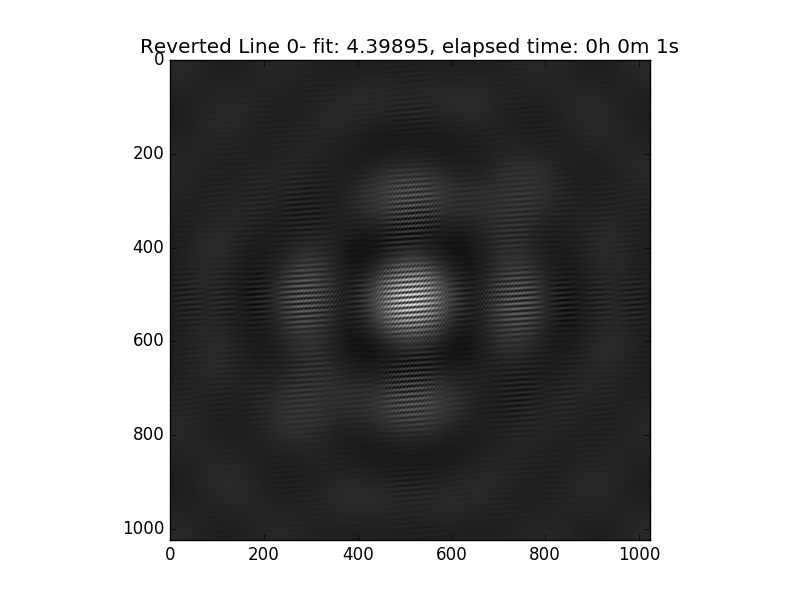
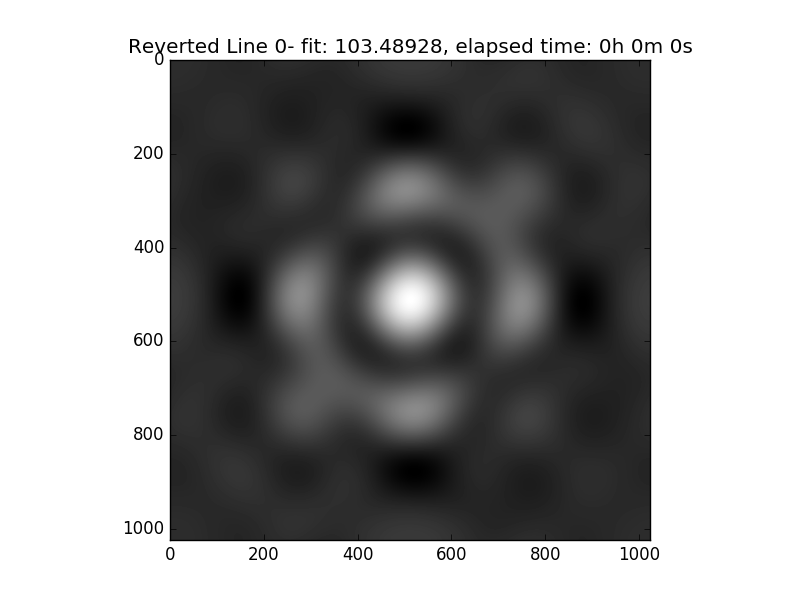
Got rid of synatax bugs

diff --git a/genetic_hologram_generator.py b/genetic_hologram_generator.py
@@ -1,5 +1,5 @@
 # This program uses a genetic algorithm to generate a hologram that matches an input image
-# To run: python ../genetic_hologram_generator.py <path_to_hologram_templates> <path_to_OG_image_file>
+# To run: python2 <preceding path to file>/genetic_hologram_generator.py <path_to_hologram_templates> <path_to_OG_image_file>, example: python ../genetic_hologram_generator.py <path_to_hologram_templates> <path_to_OG_image_file>
 # Image shape has to match template shape, JPEG images ONLY
 
 import os
@@ -8,7 +8,7 @@ import copy
 import time
 import numpy as np
 import matplotlib.pyplot as plt
-import skimage.draw as skdraw
+import skimage.draw as skdraw # Works with skimage version 0.14, may need to get dev version
 from PIL import Image
 from scipy import misc
 
@@ -23,12 +23,13 @@ OG_IMAGE_DIMMING_FACTOR = 10000 # So reconstructed values can come close to OG i
 END_THRESHOLD = 0.0000001 # RMSE cut-off, lower fitness value is better. IGNORE THIS VALUE RIGHT NOW, not properly tuned
 END_SGENS = 200
 ADDITIONS_BEFORE_EVAL = 10
-SUCCESSFUL_GENS_BEFORE_OUTPUT = 50
+GENS_BEFORE_OUTPUT = 50
 NUM_INITIAL_LINES = 1 # How many initial parallel holograms to evolve. More than 1 enables cross-breeding.
 MAX_LINES = 1
 CROSSOVER_RATE = 50 # Number of S_gens before crossover
 CROSSOVER_SINGLE_POINT_THRESH = 0.5 # Value between 0 and 1 that determines where the code is swapped at. Higher values means more of original chromosome is preserved
-MIN_FIT_INCREASE = 0.001
+MIN_FIT_INCREASE = 0.001 # Determines when to stop algorithm
+FITNESS_WHITE_PIXEL_BIAS = 0.5 # How much to look for white pixels in fitness calculation, FITNESS_BLACK_PIXEL_BIAS = (1 - FITNESS_WHITE_PIXEL_BIAS)
 
 # Parameters to loop through, add elements to these arrays to loop through them
 MAX_SHAPE_SIZE = [10]
@@ -57,8 +58,10 @@ def fitness(original, current, image_side_len):
     #np.savetxt('original_image.txt', original)
     #np.savetxt('current_image.txt', current)
     #print(np.amax(current))
-    t = original - current
-    return np.linalg.norm(t) # Test out different norm functions
+    #t = original - current
+    white_bias = FITNESS_WHITE_PIXEL_BIAS * np.linalg.norm(original * current)
+    black_bias = (1 - FITNESS_WHITE_PIXEL_BIAS) * np.linalg.norm(np.abs(original - MAX_INTENSITY) * current)
+    return white_bias + black_bias # Test out different norm functions
 
 def draw_filled_circle(x, y, r):
     return skdraw.circle(int(x), int(y), int(r))
@@ -67,10 +70,10 @@ def draw_outline_circle(x, y, r):
     return skdraw.circle_perimeter(int(x), int(y), int(r))
     
 def draw_filled_rectangle(x, y, half_side):
-    return skdraw.polygon([x - half_side, x + half_side, x + half_side, x - half_side], [y - half_side, y - half_side, y + half_side, y + half_side])
+    return skdraw.polygon(np.asarray([x - half_side, x + half_side, x + half_side, x - half_side]), np.asarray([y - half_side, y - half_side, y + half_side, y + half_side]))
 
 def draw_outline_rectangle(x, y, half_side):
-    return skdraw.polygon_perimeter([x - half_side, x + half_side, x + half_side, x - half_side], [y - half_side, y - half_side, y + half_side, y + half_side])
+    return skdraw.polygon_perimeter(np.asarray([x - half_side, x + half_side, x + half_side, x - half_side]), np.asarray([y - half_side, y - half_side, y + half_side, y + half_side]))
 
 def add_hologram(holo_array, image_side_len, num_template_images, origin, s):
     # Create "blank canvas"        
@@ -114,10 +117,10 @@ def crossover_two_lines_single_point(holo_arrays, line_one, line_two):
     
     holo_arrays.append(new_holo_after_thresh)
     
-def eval_fit(original_image, templates, holo_array, image_side_len, current_sgen, start_time, m, s, lin_num):
+def eval_fit(original_image, templates, current_line, image_side_len, current_gen, start_time, m, s, lin_num, best_fitness):
     cumulative_hologram = np.zeros([image_side_len, image_side_len])
-    for i in range(len(holo_array)):
-        current_holo_vals = holo_array[i]
+    for i in range(len(current_line)):
+        current_holo_vals = np.array(current_line[i])
         mask = np.zeros([image_side_len, image_side_len])
         
         if (current_holo_vals[0] == 0):
@@ -146,13 +149,13 @@ def eval_fit(original_image, templates, holo_array, image_side_len, current_sgen
     fit = fitness(original_image, holo_revert, image_side_len)
     
     if (fit < best_fitness):
-        print("Line " + str(lin_num) + " new best fitness: %.5f -- S_gen %d" % (fit, current_sgen + 1))
+        print("Line " + str(lin_num) + " best fitness: %.5f -- S_gen %d" % (fit, current_gen + 1))
         # Print the % of each template type
-        template_vals = np.array(holo_array)[:, 5]
+        template_vals = np.array(current_line)[:, 5]
         for i in range(len(TEMPLATE_NAMES)):
             print("\t{0:.5f}".format(((template_vals == i).sum() / template_vals.size)) + "\t" + TEMPLATE_NAMES[i])
         # Don't output so many times
-        if ((current_sgen + 1) % SUCCESSFUL_GENS_BEFORE_OUTPUT == 0 or current_sgen == 0):
+        if ((current_gen + 1) % GENS_BEFORE_OUTPUT == 0 or current_gen == 0):
             # Make sure directory exists
             target_dir = "Outputs/Current_run/" + "Mutate_" + str(int(m * 100)) + "/Max_shape_" + str(s) + "/"
             if not os.path.isdir(target_dir):
@@ -161,18 +164,17 @@ def eval_fit(original_image, templates, holo_array, image_side_len, current_sgen
             #plt.figure(1)
             plt.imshow(cumulative_hologram, cmap = 'gray')
             plt.title("Hologram Line " + str(lin_num))
-            plt.savefig(target_dir + "S_gen_" + str(current_sgen + 1) + "_holo" + "_Line" + str(lin_num) + ".png")
+            plt.savefig(target_dir + "S_gen_" + str(current_gen + 1) + "_holo" + "_Line" + str(lin_num) + ".png")
             #plt.figure(2)
             et_h, rem = divmod(int(time.time() - start_time), 3600)
             et_m, et_s = divmod(rem, 60)
             plt.imshow(holo_revert, cmap = 'gray')
             plt.title("Reverted Line " + str(lin_num) + "- fit: " + "{0:.5f}".format(fit) + ", elapsed time: " + str(et_h) + "h " + str(et_m) + "m " + str(et_s) + "s")
-            plt.savefig(target_dir + "S_gen_" + str(current_sgen + 1) + "_revert" + "_Line" + str(lin_num) + ".png")
+            plt.savefig(target_dir + "S_gen_" + str(current_gen + 1) + "_revert" + "_Line" + str(lin_num) + ".png")
             #plt.show()
-        current_sgen += 1
         
     # return current fitness, current_sgen, holo_array[:(len(holo_array) - ADDITIONS_BEFORE_EVAL)] # Remove the recently added-in hologram images
-    return fit, current_sgen
+    return fit
 
 def main():
     # Load templates
@@ -207,23 +209,28 @@ def main():
             #can_cross = []
             for i in range(NUM_INITIAL_LINES):
                 holo_arrays.append(line_array)
-                best_fitness.append(sys.float_info.max) # Lower fitness is better, initialize high
+                fitness.append(0)
+                # Add starting info
+                for j in range(ADDITIONS_BEFORE_EVAL):
+                    add_hologram(holo_arrays[i], image_side_len, templates.shape[0], True, MAX_SHAPE_SIZE[s])
+                #best_fitness.append(sys.float_info.max) # Lower fitness is better, initialize high
                 #line_finished.append(False)
                 #can_cross.append(False)
             num_total_lines = NUM_INITIAL_LINES
             generation = 0
-                
+            
             # Loop until fitness eval is within error threshold
-            best_fitness_val = 0.0
+            best_fitness_val = sys.float_info.max
             best_fitness_diff = sys.float_info.max # Set arbitrary high value
-            while (best_fitness_diff < MIN_FIT_INCREASE): # Stop when fitness improvement becomes small
+            while (best_fitness_diff > MIN_FIT_INCREASE): # Stop when fitness improvement becomes small
+                print('Generation: ' + str(generation))
                 """ 1. Assess fitness """
                 for line in range(num_total_lines):
                     #if (not line_finished[line]):
                     #if (best_fitness[line] > END_THRESHOLD and current_sgen[line] < END_SGENS):
-                    fitness[line], best_fit = eval_fit(OG_image, templates, tmp_holo_array, image_side_len, best_fitness_val, generation, start_time, MUTATION_CHANCE[m], MAX_SHAPE_SIZE[s], line)
-                    if (fitness < best_fitness_val)
-                        fitness[line] = current_fitness
+                    fitness[line] = eval_fit(OG_image, templates, holo_arrays[line], image_side_len, generation, start_time, MUTATION_CHANCE[m], MAX_SHAPE_SIZE[s], line, best_fitness_val)
+                    #if (fitness < best_fitness_val):
+                        #fitness[line] = current_fitness
 
                 """ 2. Selection """
                 pick_line = [0, 0]
@@ -234,19 +241,21 @@ def main():
                             continue
                         if (fitness[line] < tmp_best_fitness):
                             pick_line[p] = line
+                best_fitness_diff = pick_line[0] - best_fitness_val
+                best_fitness_val = pick_line[0] # best_fitness_val should never decrease, because original line should always be kept
 
                 """ 3. Crossover """
                 crossover_two_lines_single_point(holo_arrays, pick_line[0], pick_line[1])
 
-                """ 4. Mutation """ # Mutate new line to add genetic diversity
+                """ 4. Mutation """ # Sometimes mutate new line to add genetic diversity
                 r = np.random.random() # Generates a random value between 0 and 1
                 for i in range(ADDITIONS_BEFORE_EVAL):
-                    if (r < m and len(holo_arrays[-1]) > ADDITIONS_BEFORE_EVAL): # Mutate, remove hologram layer because layers are additive
+                    if (r < MUTATION_CHANCE[m] and len(holo_arrays[-1]) > ADDITIONS_BEFORE_EVAL): # Mutate, remove hologram layer because layers are additive
                         r_int = np.random.randint(len(holo_arrays[-1]))
-                        del tmp_holo_array[r_int]
+                        del holo_arrays[-1][r_int]
                     # Augment  
                     #if (i == 0):
-                    add_hologram(tmp_holo_array, image_side_len, templates.shape[0], True, MAX_SHAPE_SIZE[s]) # tmp_holo_array is modified in the function, includes point in origin
+                    add_hologram(holo_arrays[-1], image_side_len, templates.shape[0], True, MAX_SHAPE_SIZE[s]) # tmp_holo_array is modified in the function, includes point in origin
                     #else:
                     #add_hologram(tmp_holo_array, image_side_len, templates.shape[0], False, MAX_SHAPE_SIZE[s]) # tmp_holo_array is modified in the function             
 

diff --git a/image_test.py b/image_test.py
@@ -1,0 +1,11 @@
+from scipy import misc
+import matplotlib.pyplot as plt
+import numpy as np
+import sys
+import os
+
+pic_path = str(sys.argv[1])
+A = misc.imread(pic_path, flatten=True)
+plt.imshow(np.abs(A-255), cmap="gray")
+print(np.max(-A))
+plt.show()
